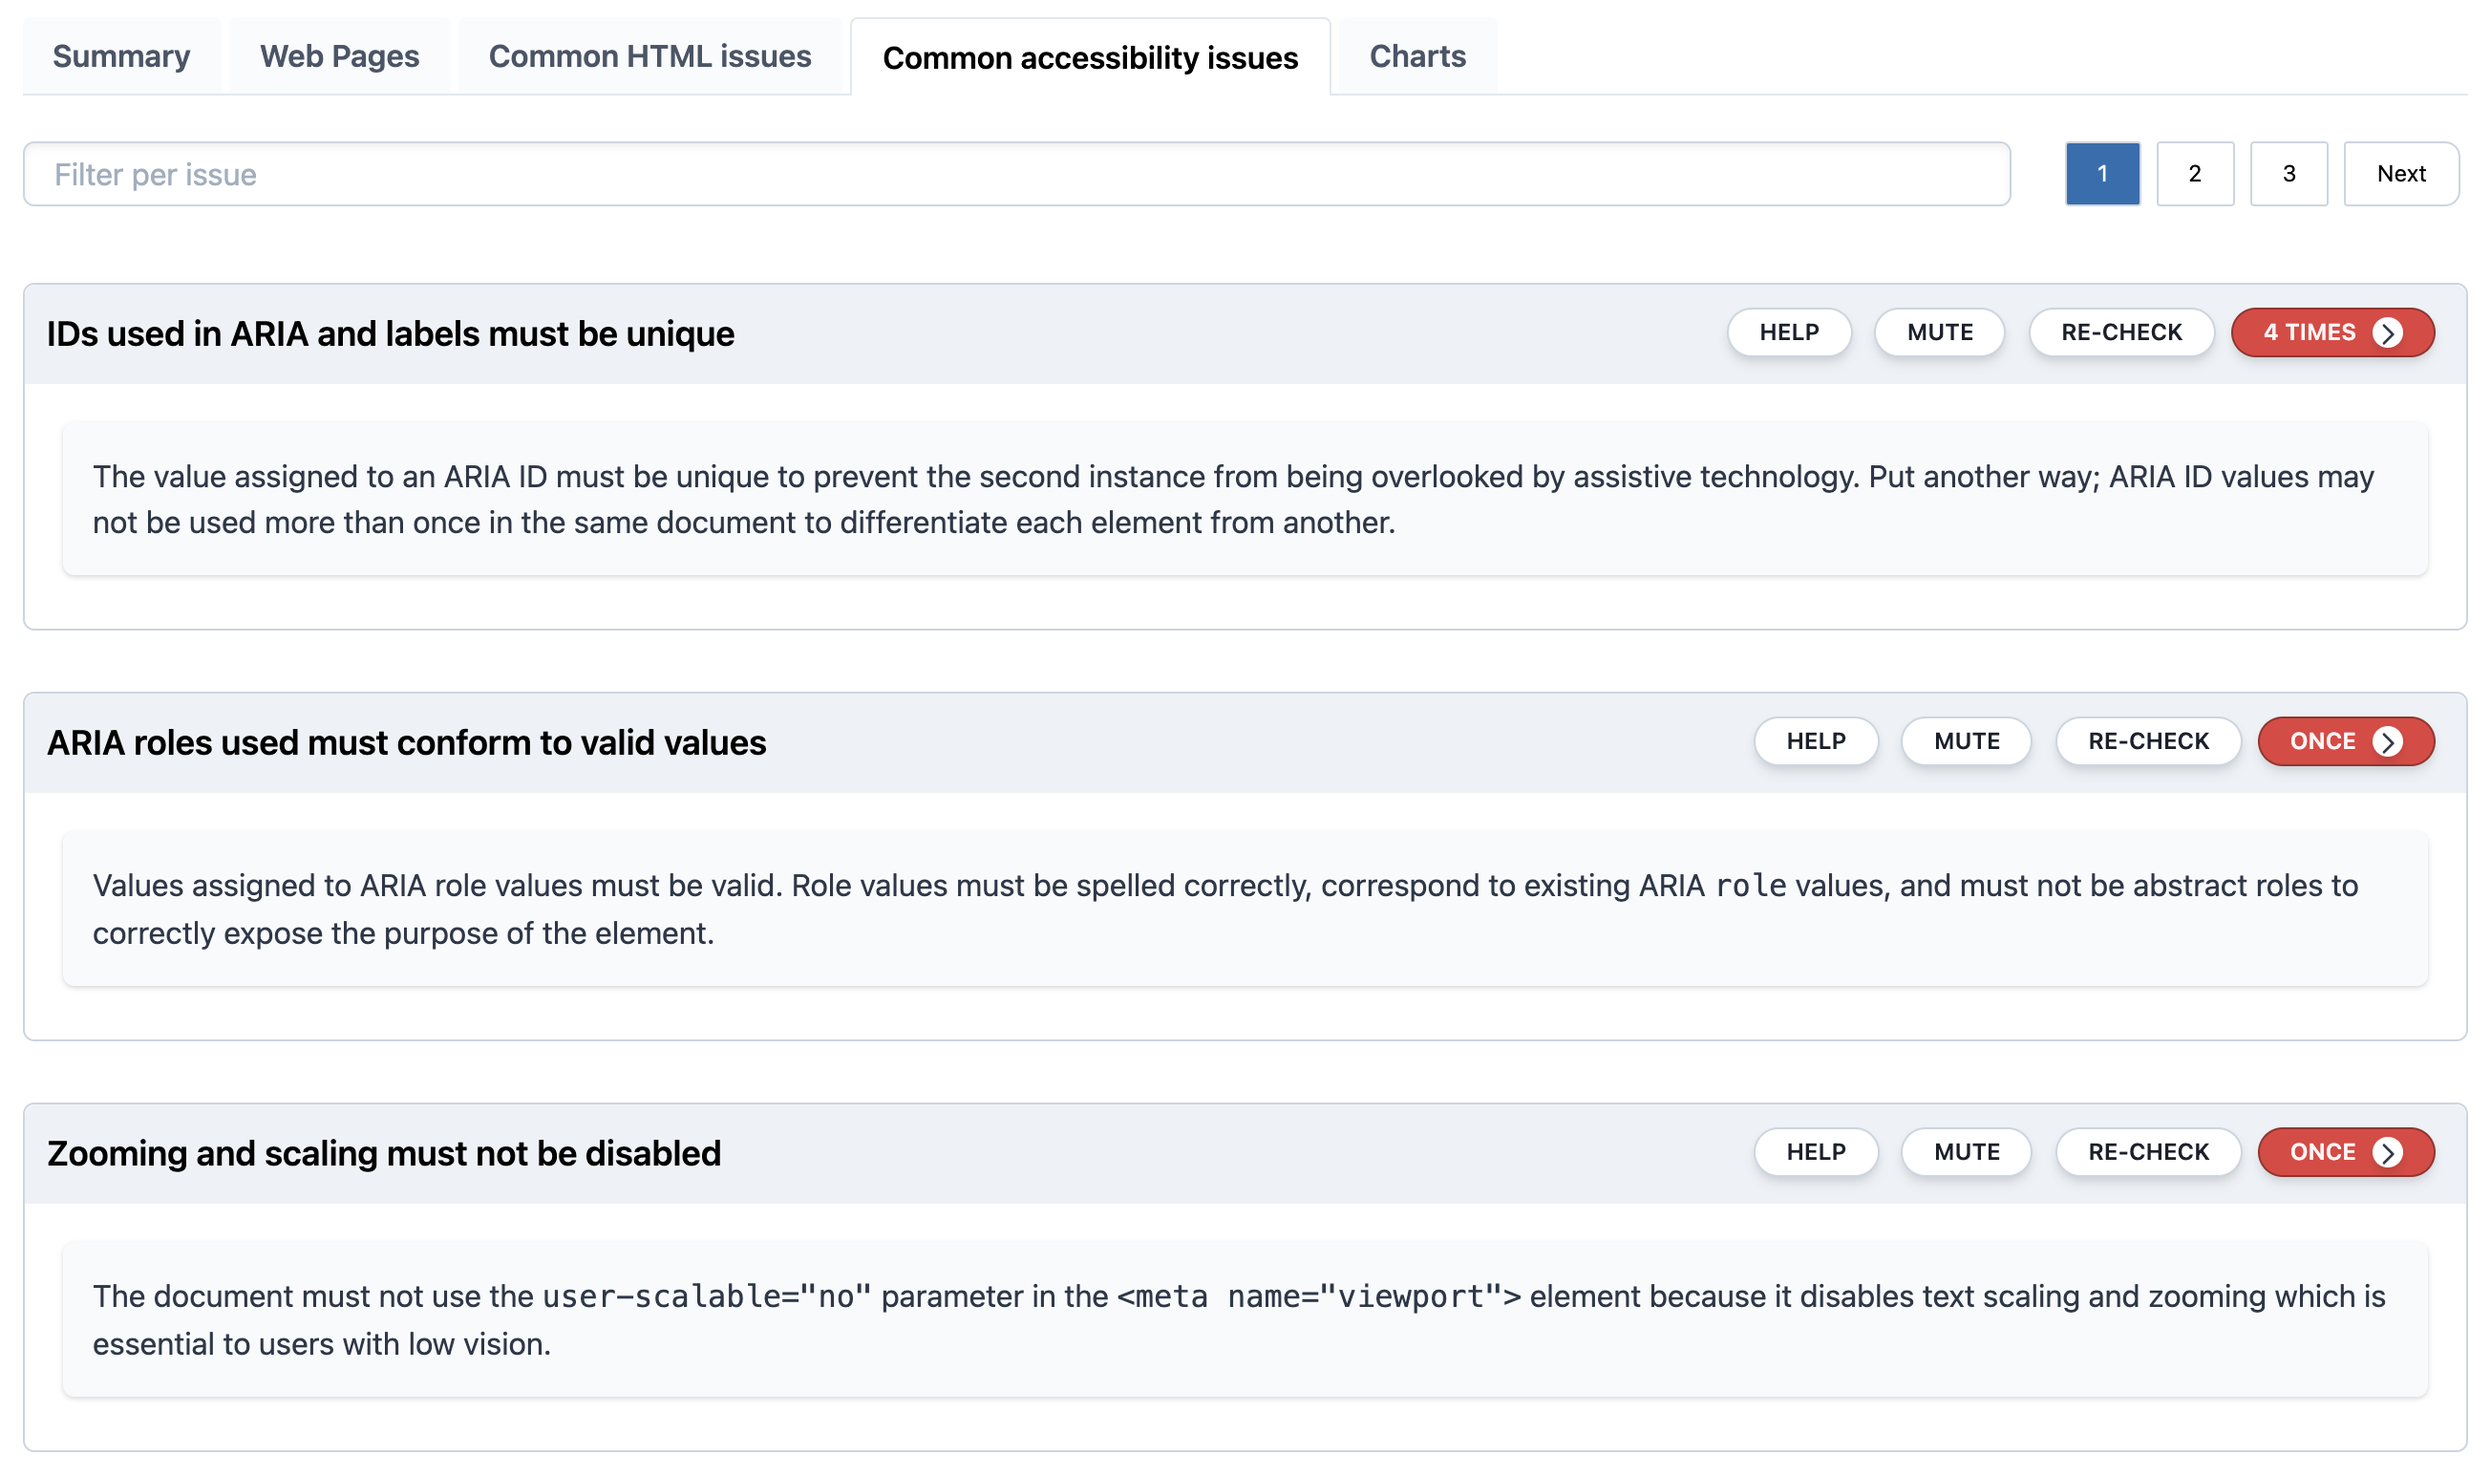
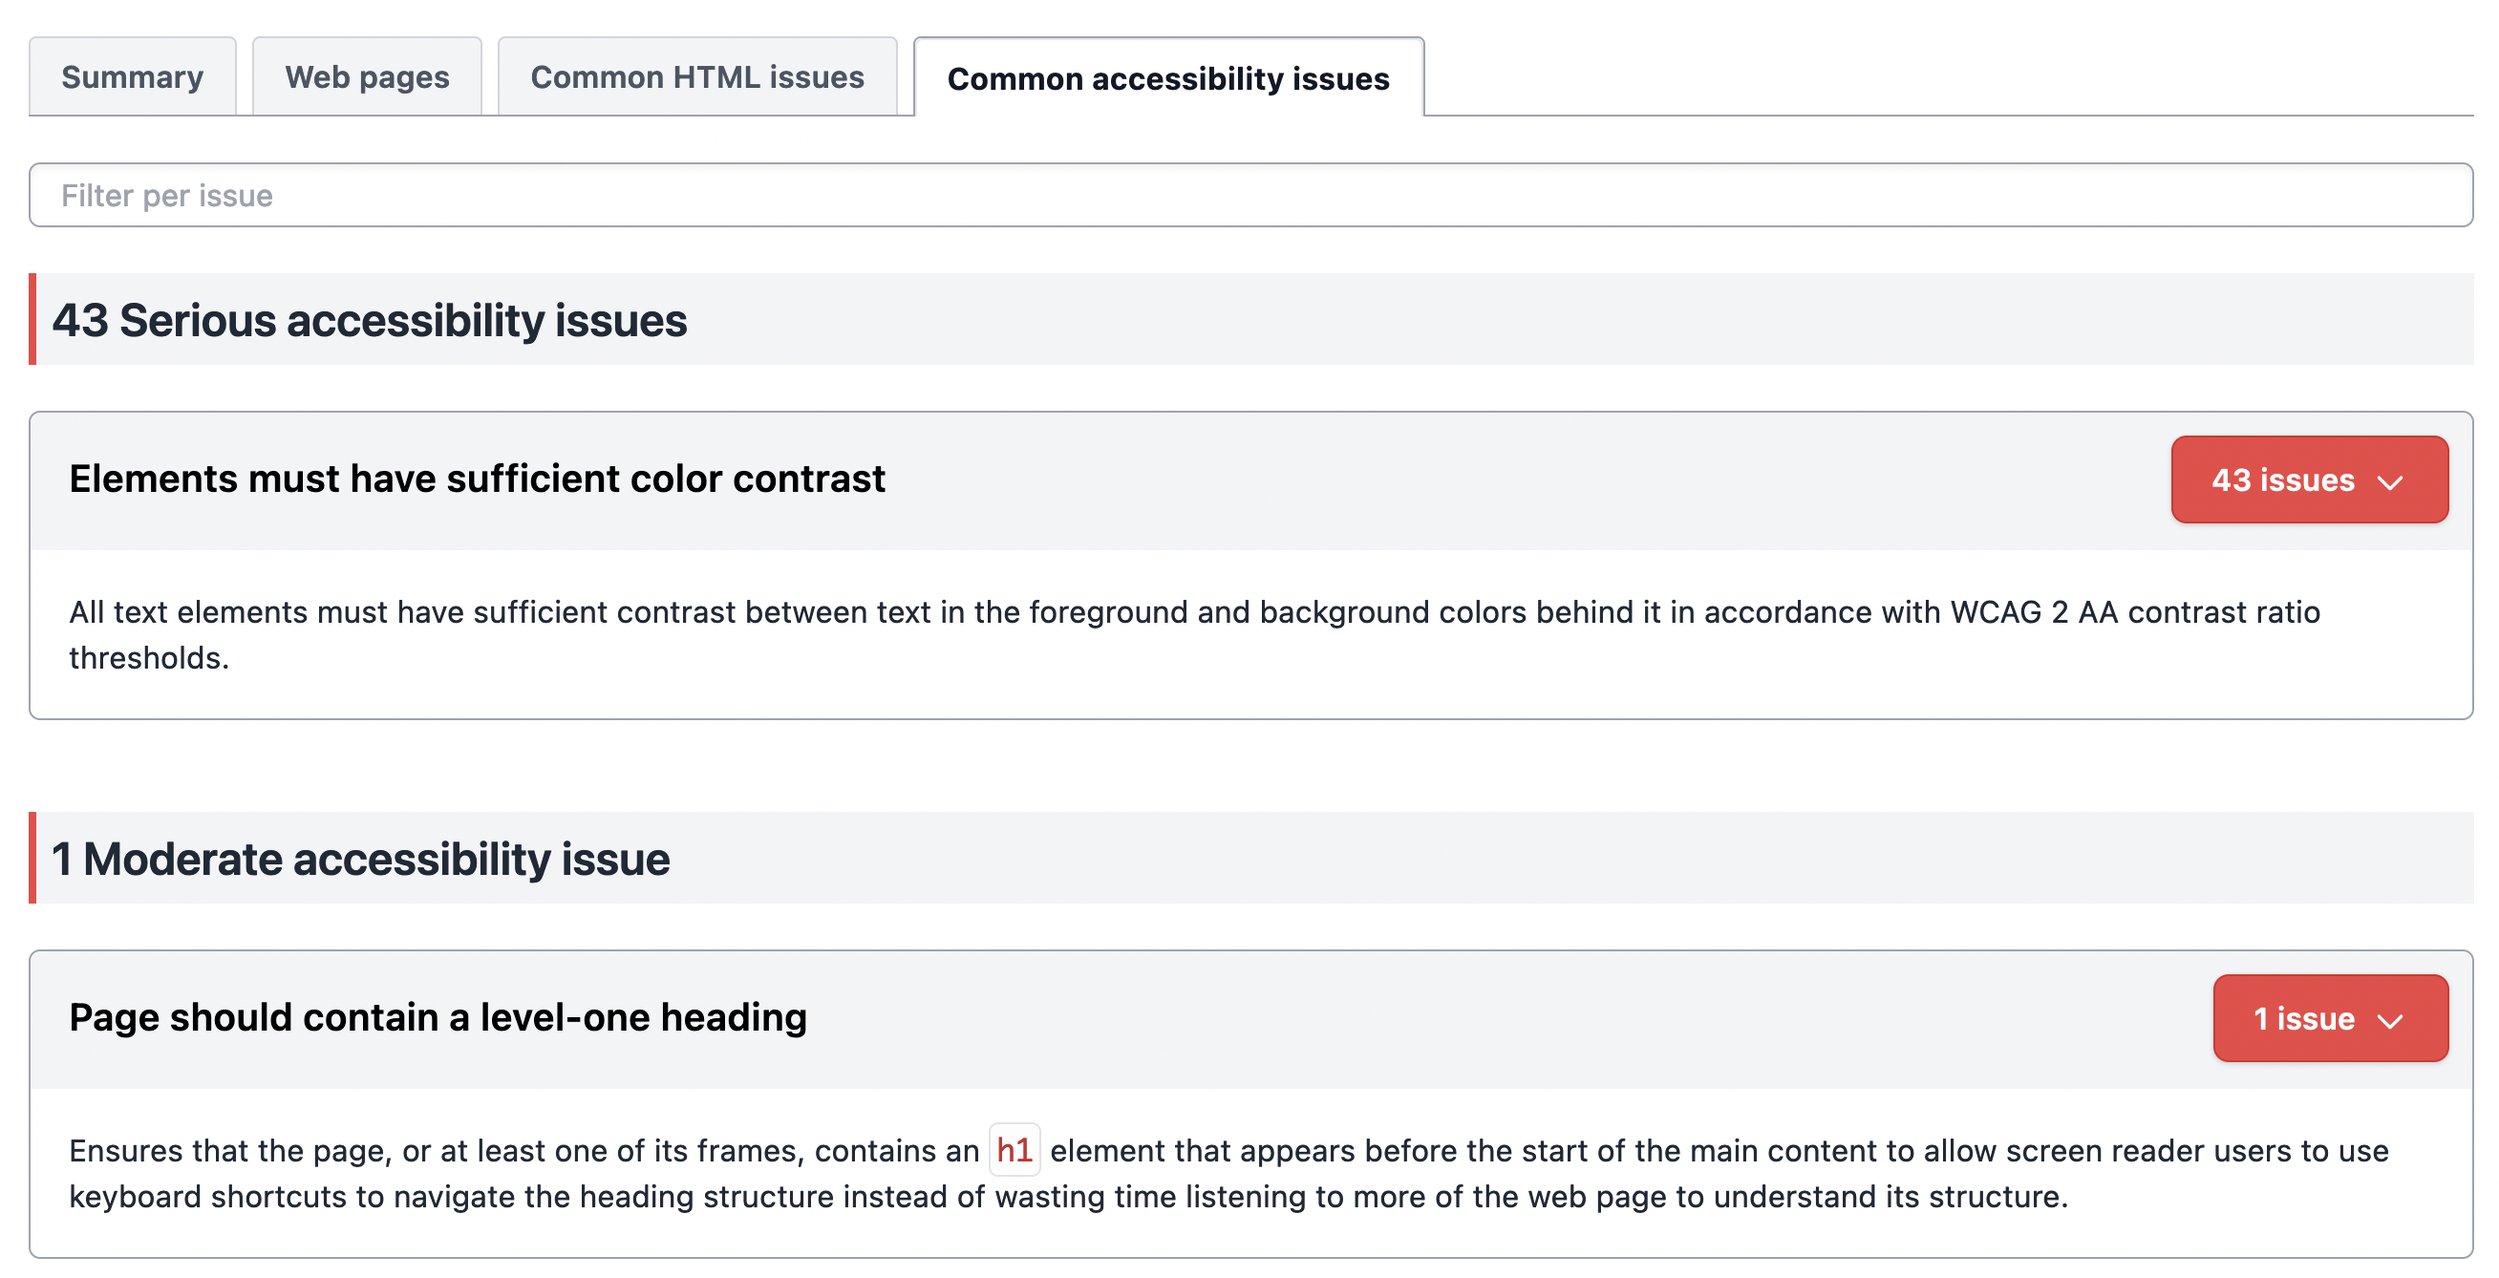
update screenshots

diff --git a/docs/summary-reports.md b/docs/summary-reports.md
@@ -8,7 +8,7 @@ That's why the first screen you'll see when creating a new report is the **Summa
 
 Also, for the HTML and accessibility checks, a **progress gauge** shows the percentage of pages that passed all the checks. Your goal is to reach a 100% of web pages passing all checks.
 
-![Summary Report](/img/summary_report.png)
+![Summary Report](/img/summary_report_2022_10_10.jpg)
 
 ## Common HTML / accessibility issues tabs
 
@@ -23,6 +23,8 @@ The grouped issues are ordered by their severity and the number of web pages tha
 ## Seeing web pages affected
 
 Click on an issue, and you'll see the pages that have this exact issue, and how many times it appears on each different page.
+
+![Issue and pages](/img/issue_menu_web_pages_affected.png)
 
 ![Issue and pages](/img/web_pages_affected_per_issue.png)
 
